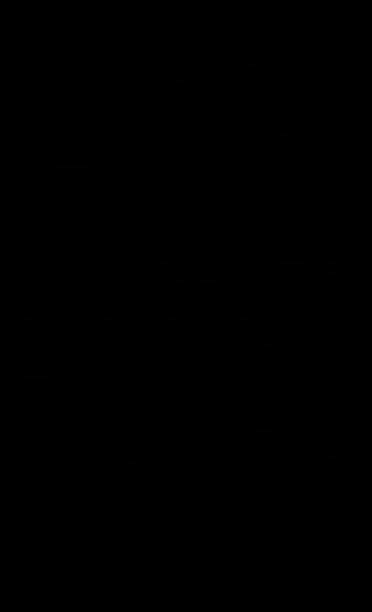
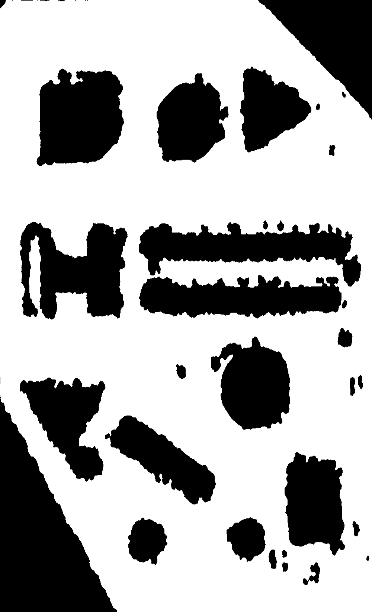
minor

diff --git a/solution/part_detection.py b/solution/part_detection.py
@@ -133,5 +133,5 @@ if __name__ == "__main__":
      print(_P.x_ofs, _P.y_ofs)
      cv2.imshow("bin", binary)
      cv2.waitKey(0) 
-     cv2.imwrite("ref_part_27.png", binary)
+     cv2.imwrite("ref_part_27.png", 255*binary)
      
